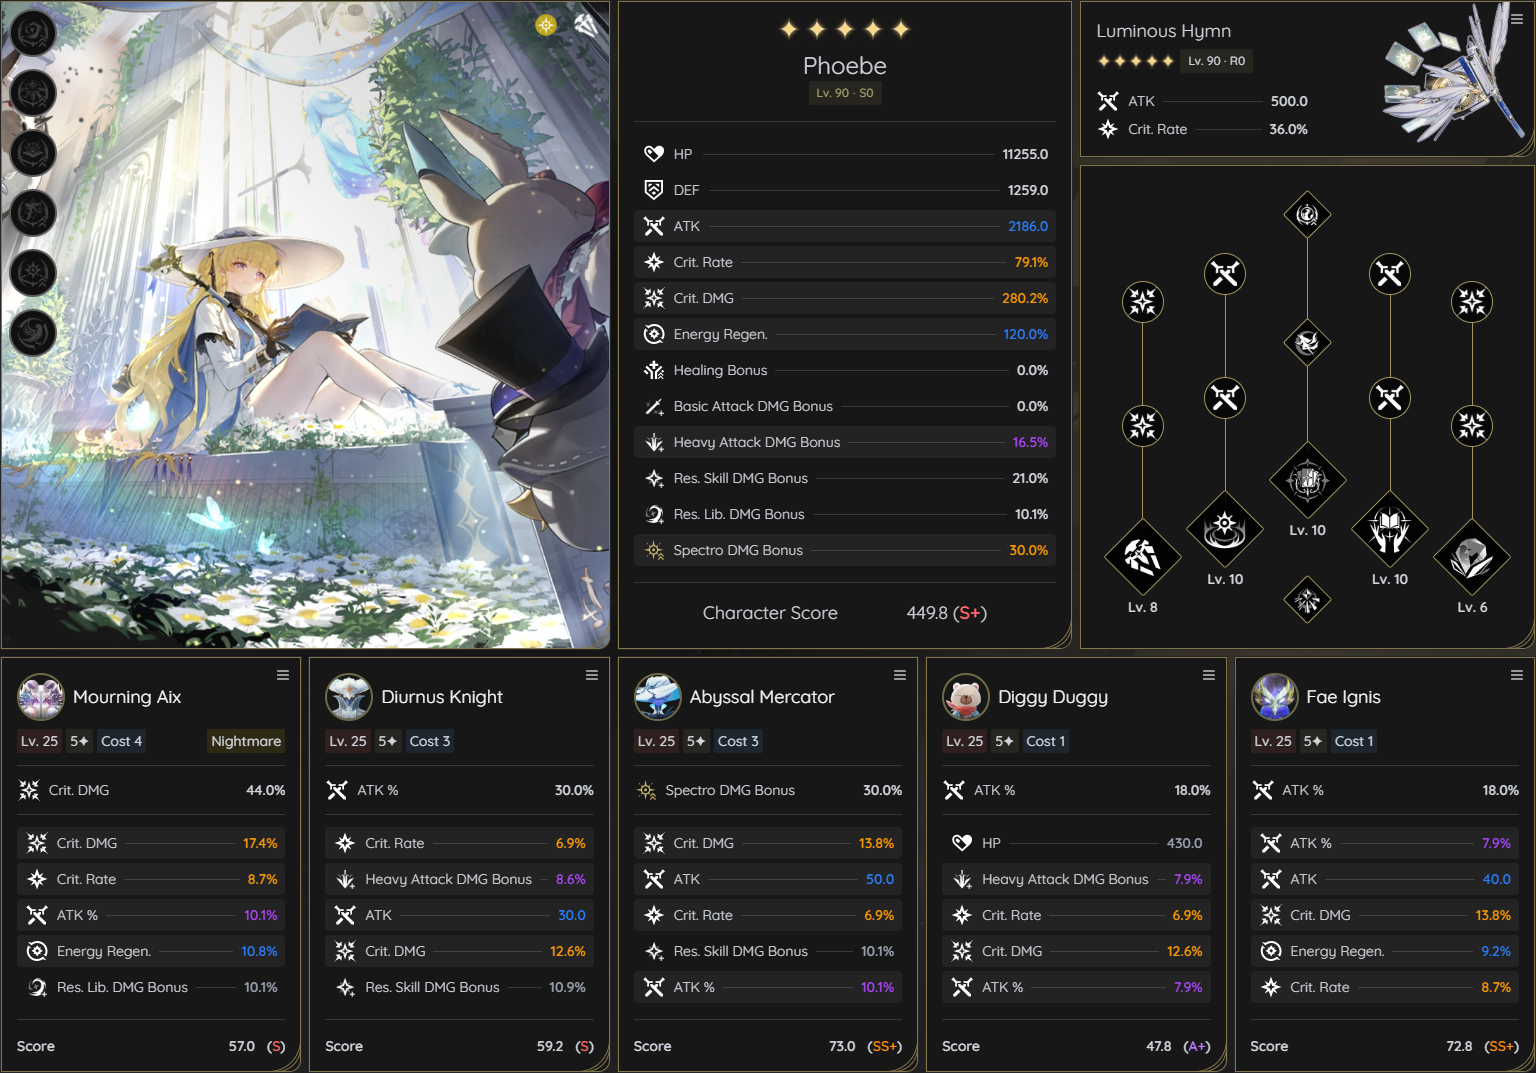
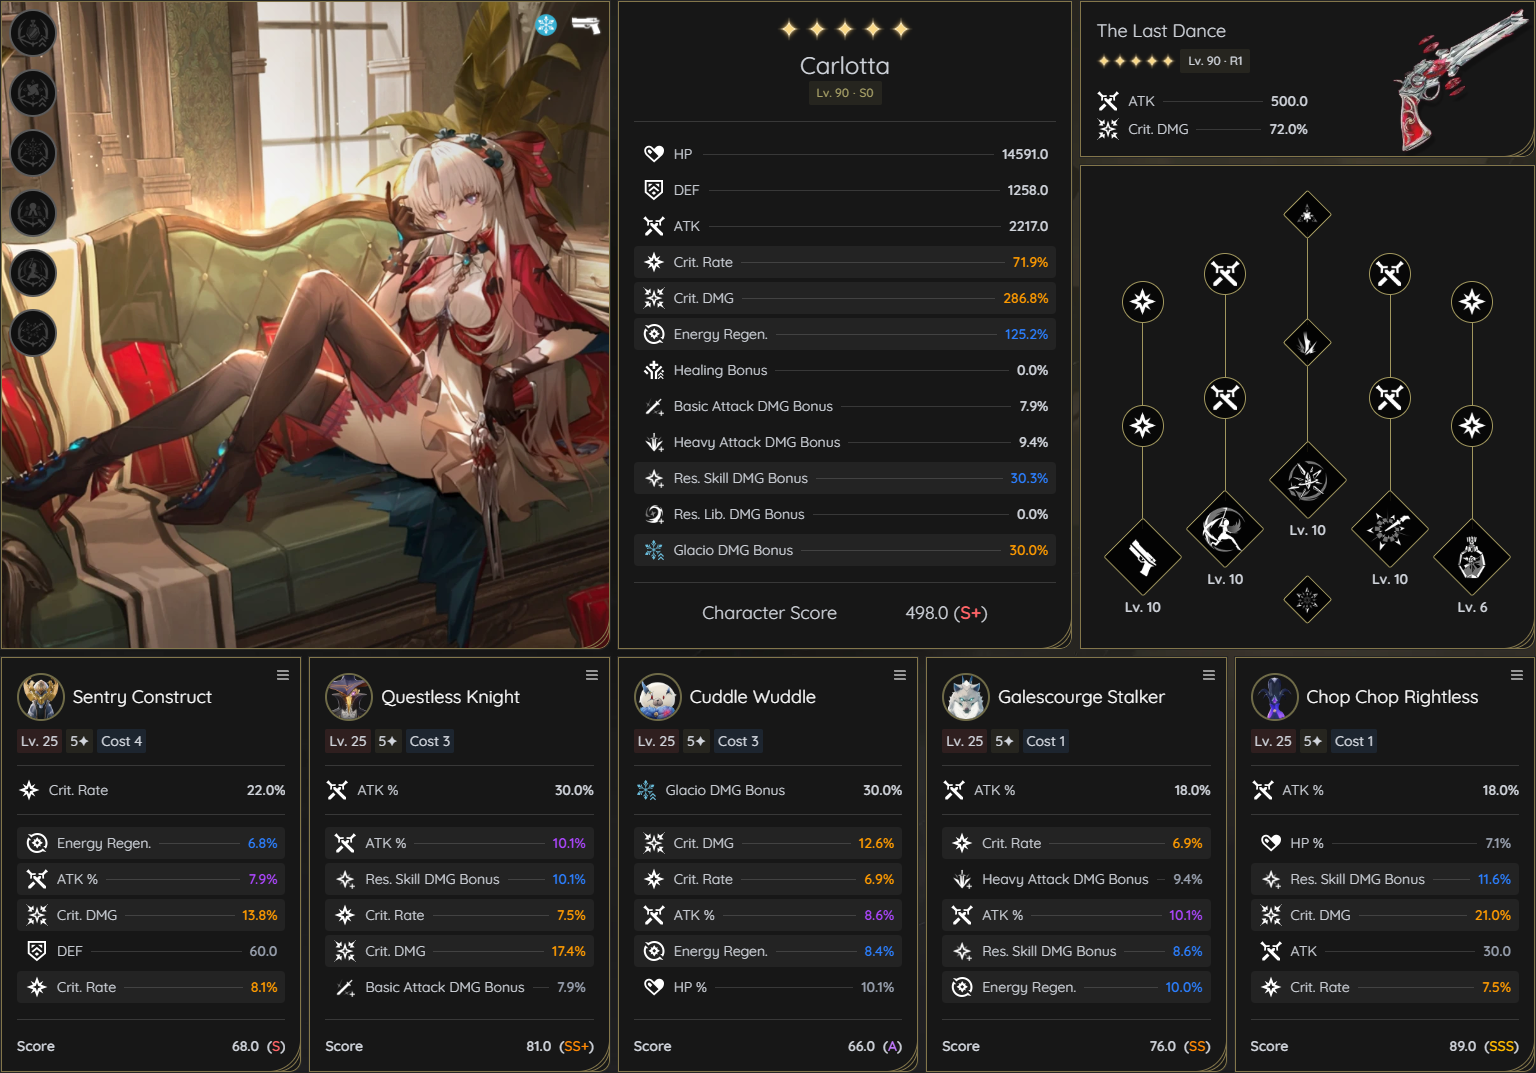
Echoes sorting bug fixes

diff --git a/app/components/Characters/Tabs/CharacterScorerTab.vue b/app/components/Characters/Tabs/CharacterScorerTab.vue
@@ -18,25 +18,13 @@ if (ActiveCharacter === undefined || ActiveCharacter === null) {
 }
 
 function GetEchoes(): Echo[] {
-  const echoes: Echo[] = [
-    Empty_Echo,
-    Empty_Echo,
-    Empty_Echo,
-    Empty_Echo,
-    Empty_Echo,
-  ]
-
   if (ActiveCharacter === undefined || ActiveCharacter.EquipedEchoes.length === 0) {
-    return echoes
+    return []
   }
 
-  EchoesStore
+  return EchoesStore
     .GetEchoesByIds(ActiveCharacter.EquipedEchoes, ActiveCharacter.Id)
-    .forEach((echo, index) => {
-      echoes[echo.EquipedSlot || index] = echo
-    })
-
-  return echoes
+    .sort((a, b) => (a.EquipedSlot || 0) - (b.EquipedSlot || 0))
 }
 
 async function TakeScreenShotAsync() {

diff --git a/i18n/locales/en-US.ts b/i18n/locales/en-US.ts
@@ -36,6 +36,7 @@ export default {
   'label_stat_glacio_dmg_bonus': 'Glacio DMG Bonus',
   'label_stat_fusion_dmg_bonus': 'Fusion DMG Bonus',
   'label_stat_electro_dmg_bonus': 'Electro DMG Bonus',
+  'label_stat_aero_dmg_bonus': 'Aero DMG Bonus',
 
   // === Weapons ===
   '21010026_name': 'Ages of Harvest',

diff --git a/README.md b/README.md
@@ -11,6 +11,7 @@
 
 ![wuwa_optimizer_showcase_00](/.github/images/wuwa-optimizer-showcase-00.png)
 ![wuwa_optimizer_showcase_01](/.github/images/wuwa-optimizer-showcase-01.png)
+![wuwa_optimizer_showcase_02](/.github/images/wuwa-optimizer-showcase-02.png)
 <br>
 
 ## Credits
